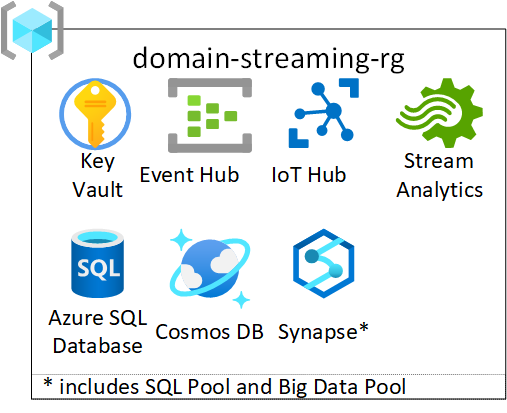
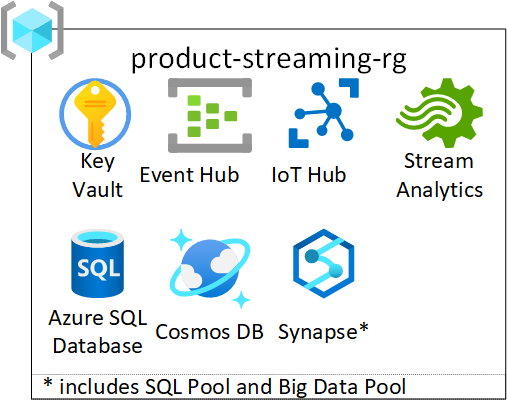
* updated uris * updated product visio

Changed region(s): [[0.2367, 0.1162, 0.7988, 0.1743]]

diff --git a/README.md b/README.md
@@ -32,8 +32,8 @@ The Enterprise-Scale Analytics architecture is modular by design and allows cust
 | Enterprise-Scale Analytics | Deploys a [Data Management Zone](https://github.com/Azure/data-management-zone) and one or multiple Data Landing Zones all at once. Provides less options than the the individual Data Management Zone and Data Landing Zone deployment options. Helps you to quickly get started and make yourself familiar with the reference design. For more advanced scenarios, please deploy the artifacts individually. |[![Deploy To Azure](https://aka.ms/deploytoazurebutton)](https://portal.azure.com/#blade/Microsoft_Azure_CreateUIDef/CustomDeploymentBlade/uri/https%3A%2F%2Fraw.githubusercontent.com%2FAzure%2Fdata-management-zone%2Fmain%2Fdocs%2Freference%2FenterpriseScaleAnalytics.json/uiFormDefinitionUri/https%3A%2F%2Fraw.githubusercontent.com%2FAzure%2Fdata-management-zone%2Fmain%2Fdocs%2Freference%2Fportal.enterpriseScaleAnalytics.json) |  |
 | Data Management Zone       | Deploys a single Data Management Zone to a subscription. |[![Deploy To Azure](https://aka.ms/deploytoazurebutton)](https://portal.azure.com/#blade/Microsoft_Azure_CreateUIDef/CustomDeploymentBlade/uri/https%3A%2F%2Fraw.githubusercontent.com%2FAzure%2Fdata-management-zone%2Fmain%2Finfra%2Fmain.json/uiFormDefinitionUri/https%3A%2F%2Fraw.githubusercontent.com%2FAzure%2Fdata-management-zone%2Fmain%2Fdocs%2Freference%2Fportal.dataManagementZone.json) | [Repository](https://github.com/Azure/data-management-zone) |
 | Data Landing Zone          | Deploys a single Data Landing Zone to a subscription. Please deploy a [Data Management Zone](https://github.com/Azure/data-management-zone) first. |[![Deploy To Azure](https://aka.ms/deploytoazurebutton)](https://portal.azure.com/#blade/Microsoft_Azure_CreateUIDef/CustomDeploymentBlade/uri/https%3A%2F%2Fraw.githubusercontent.com%2FAzure%2Fdata-landing-zone%2Fmain%2Finfra%2Fmain.json/uiFormDefinitionUri/https%3A%2F%2Fraw.githubusercontent.com%2FAzure%2Fdata-landing-zone%2Fmain%2Fdocs%2Freference%2Fportal.dataLandingZone.json) | [Repository](https://github.com/Azure/data-landing-zone) |
-| Data Product Batch         | Deploys a Data Workload template for Data Batch Analysis to a resource group inside a Data Landing Zone. Please deploy a [Data Management Zone](https://github.com/Azure/data-management-zone) and [Data Landing Zone](https://github.com/Azure/data-landing-zone) first. |[![Deploy To Azure](https://aka.ms/deploytoazurebutton)](/) | [Repository](https://github.com/Azure/data-product-batch) |
-| Data Product Streaming     | Deploys a Data Workload template for Data Streaming Analysis to a resource group inside a Data Landing Zone. Please deploy a [Data Management Zone](https://github.com/Azure/data-management-zone) and [Data Landing Zone](https://github.com/Azure/data-landing-zone) first. |[![Deploy To Azure](https://aka.ms/deploytoazurebutton)](/) | [Repository](https://github.com/Azure/data-product-streaming) |
+| Data Product Batch         | Deploys a Data Workload template for Data Batch Analysis to a resource group inside a Data Landing Zone. Please deploy a [Data Management Zone](https://github.com/Azure/data-management-zone) and [Data Landing Zone](https://github.com/Azure/data-landing-zone) first. |[![Deploy To Azure](https://aka.ms/deploytoazurebutton)](https://portal.azure.com/#blade/Microsoft_Azure_CreateUIDef/CustomDeploymentBlade/uri/https%3A%2F%2Fraw.githubusercontent.com%2FAzure%2Fdata-product-batch%2Fmain%2Finfra%2Fmain.json/uiFormDefinitionUri/https%3A%2F%2Fraw.githubusercontent.com%2FAzure%2Fdata-product-batch%2Fmain%2Fdocs%2Freference%2Fportal.dataProduct.json) | [Repository](https://github.com/Azure/data-product-batch) |
+| Data Product Streaming     | Deploys a Data Workload template for Data Streaming Analysis to a resource group inside a Data Landing Zone. Please deploy a [Data Management Zone](https://github.com/Azure/data-management-zone) and [Data Landing Zone](https://github.com/Azure/data-landing-zone) first. |[![Deploy To Azure](https://aka.ms/deploytoazurebutton)](https://portal.azure.com/#blade/Microsoft_Azure_CreateUIDef/CustomDeploymentBlade/uri/https%3A%2F%2Fraw.githubusercontent.com%2FAzure%2Fdata-product-streaming%2Fmain%2Finfra%2Fmain.json/uiFormDefinitionUri/https%3A%2F%2Fraw.githubusercontent.com%2FAzure%2Fdata-product-streaming%2Fmain%2Fdocs%2Freference%2Fportal.dataProduct.json) | [Repository](https://github.com/Azure/data-product-streaming) |
 | Data Product Analytics     | Deploys a Data Workload template for Data Analytics and Data Science to a resource group inside a Data Landing Zone. Please deploy a [Data Management Zone](https://github.com/Azure/data-management-zone) and [Data Landing Zone](https://github.com/Azure/data-landing-zone) first. |[![Deploy To Azure](https://aka.ms/deploytoazurebutton)](https://portal.azure.com/#blade/Microsoft_Azure_CreateUIDef/CustomDeploymentBlade/uri/https%3A%2F%2Fraw.githubusercontent.com%2FAzure%2Fdata-product-analytics%2Fmain%2Finfra%2Fmain.json/uiFormDefinitionUri/https%3A%2F%2Fraw.githubusercontent.com%2FAzure%2Fdata-product-analytics%2Fmain%2Fdocs%2Freference%2Fportal.dataProduct.json) | [Repository](https://github.com/Azure/data-product-analytics) |
 
 ## Deploy Data Product

diff --git a/docs/EnterpriseScaleAnalytics-Prerequisites.md b/docs/EnterpriseScaleAnalytics-Prerequisites.md
@@ -91,7 +91,7 @@ To use the Deploy to Azure Button, please click on the button below:
 
 | Reference implementation   | Description | Deploy to Azure |
 |:---------------------------|:------------|:----------------|
-| Data Product Streaming | Deploys a Data Workload template for Data Streaming Analysis to a resource group inside a Data Landing Zone. Please deploy a [Data Management Zone](https://github.com/Azure/data-management-zone) and [Data Landing Zone](https://github.com/Azure/data-landing-zone) first. |[![Deploy To Azure](https://aka.ms/deploytoazurebutton)](/) | [Repository](https://github.com/Azure/data-product-streaming) |
+| Data Product Streaming | Deploys a Data Workload template for Data Streaming Analysis to a resource group inside a Data Landing Zone. Please deploy a [Data Management Zone](https://github.com/Azure/data-management-zone) and [Data Landing Zone](https://github.com/Azure/data-landing-zone) first. |[![Deploy To Azure](https://aka.ms/deploytoazurebutton)](https://portal.azure.com/#blade/Microsoft_Azure_CreateUIDef/CustomDeploymentBlade/uri/https%3A%2F%2Fraw.githubusercontent.com%2FAzure%2Fdata-product-streaming%2Fmain%2Finfra%2Fmain.json/uiFormDefinitionUri/https%3A%2F%2Fraw.githubusercontent.com%2FAzure%2Fdata-product-streaming%2Fmain%2Fdocs%2Freference%2Fportal.dataProduct.json) | [Repository](https://github.com/Azure/data-product-streaming) |
 
 Alternatively, click on `Next` to follow the steps required to successfully deploy the Data Landing Zone through GitHub Actions or Azure DevOps.
 
